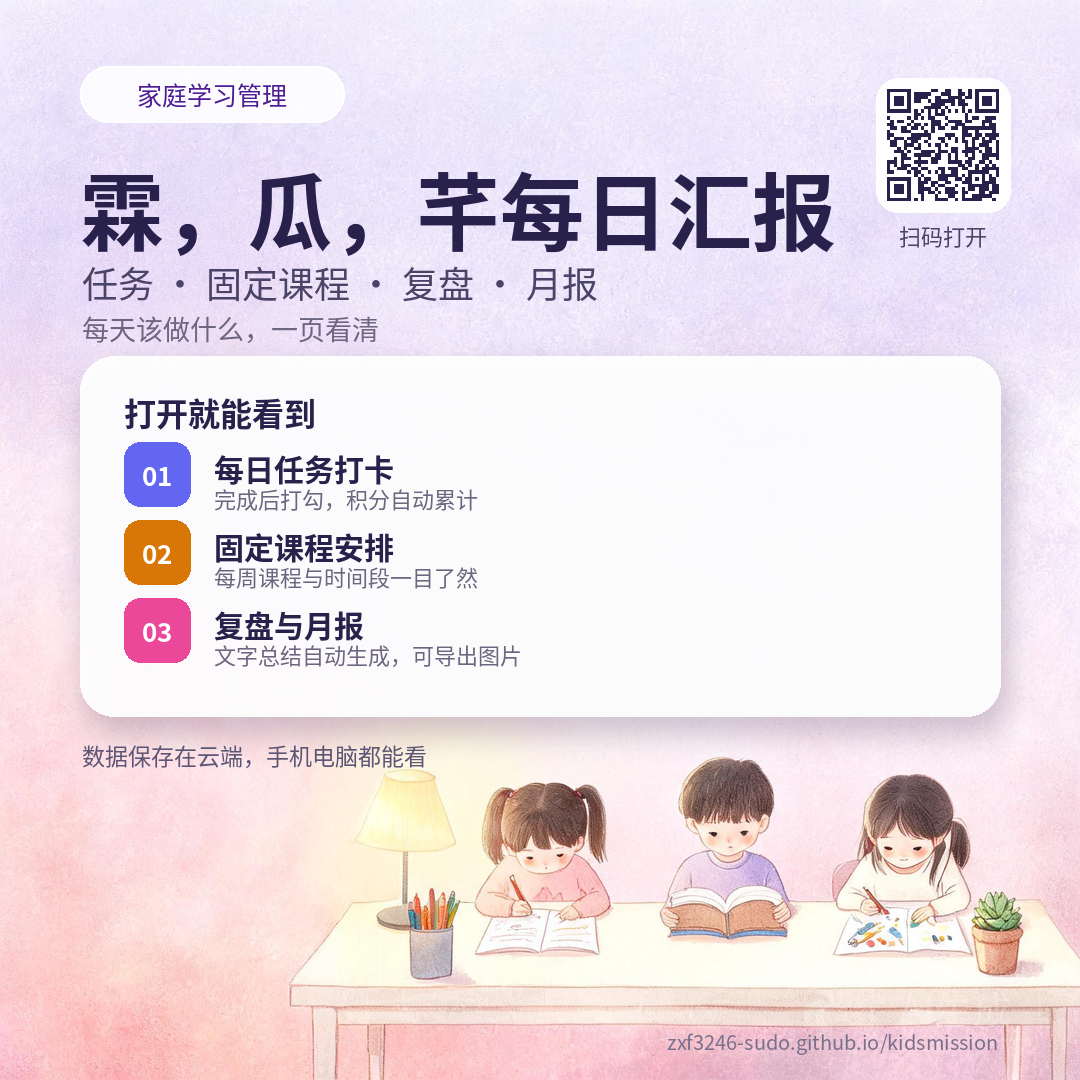
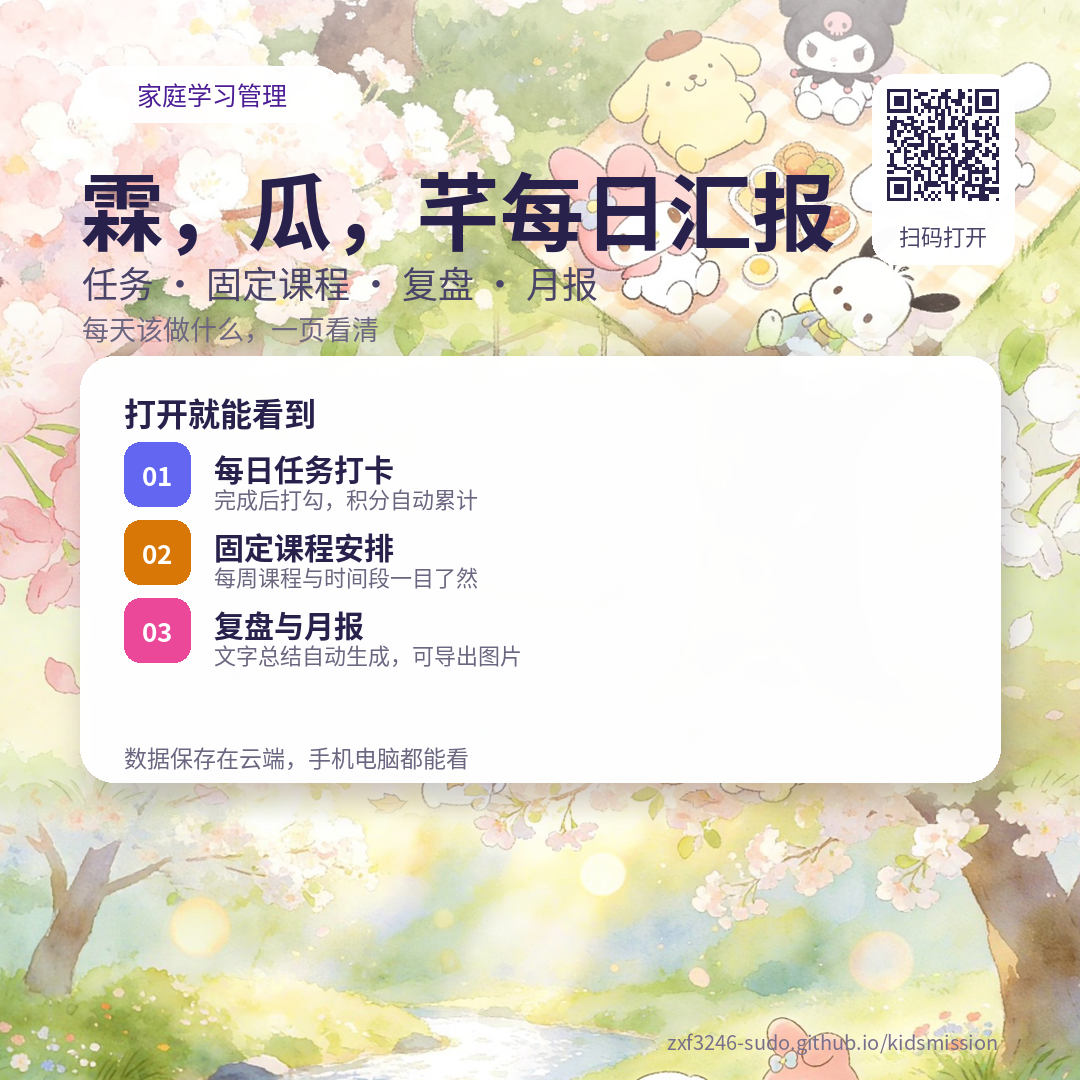
Deploy: 2026-10-27 23:11

diff --git a/index.html b/index.html
@@ -13,7 +13,7 @@
 <meta property="og:description" content="三个孩子每天的在家时间、固定课程、学习任务和复盘总结">
 <meta property="og:site_name" content="三娃任务">
 <meta property="og:locale" content="zh_CN">
-<meta property="og:image" content="https://zxf3246-sudo.github.io/kidsmission/share-cover-3.jpg?v=1">
+<meta property="og:image" content="https://zxf3246-sudo.github.io/kidsmission/share-cover-4.jpg?v=2">
 <meta property="og:image:width" content="1080">
 <meta property="og:image:height" content="1080">
 <meta property="og:url" content="https://zxf3246-sudo.github.io/kidsmission/">
@@ -21,7 +21,7 @@
 <meta name="twitter:card" content="summary_large_image">
 <meta name="twitter:title" content="三娃每日任务分配">
 <meta name="twitter:description" content="三个孩子每天的在家时间、固定课程、学习任务和复盘总结">
-<meta name="twitter:image" content="https://zxf3246-sudo.github.io/kidsmission/share-cover-3.jpg?v=1">
+<meta name="twitter:image" content="https://zxf3246-sudo.github.io/kidsmission/share-cover-4.jpg?v=2">
 <!-- 微信专用 -->
 <meta name="format-detection" content="telephone=no">
 <meta name="apple-mobile-web-app-capable" content="yes">
@@ -54,7 +54,7 @@
   body::before {
     content: ''; position: fixed; inset: 0; z-index: -1; pointer-events: none;
     background-color: var(--c-bg);
-    background-image: url('share-bg-a.jpg');
+    background-image: url('share-bg-b.jpg');
     background-size: cover;
     background-position: center;
     background-repeat: no-repeat;
@@ -6095,11 +6095,13 @@ async function exportTasksFinal() {
   let y = IMG.PAD;
   ctx.textBaseline = 'top';
 
-  // 背景：新插图铺底 + 深色蒙版（保证白色文字可读）
-  const bgImg = await loadAvatarImage('share-bg-a.jpg');
+  // 背景：新插图铺底（等比铺满后居中裁切，避免拉伸变形）+ 深色蒙版（保证白色文字可读）
+  const bgImg = await loadAvatarImage('share-bg-b.jpg');
   if (bgImg) {
+    const s = Math.max(W / bgImg.width, 6000 / bgImg.height);
+    const dw = bgImg.width * s, dh = bgImg.height * s;
     ctx.globalAlpha = .3;
-    ctx.drawImage(bgImg, 0, 0, W, 6000);
+    ctx.drawImage(bgImg, (W - dw) / 2, (6000 - dh) / 2, dw, dh);
     ctx.globalAlpha = 1;
   }
   const bg = ctx.createLinearGradient(0, 0, W, 6000);
